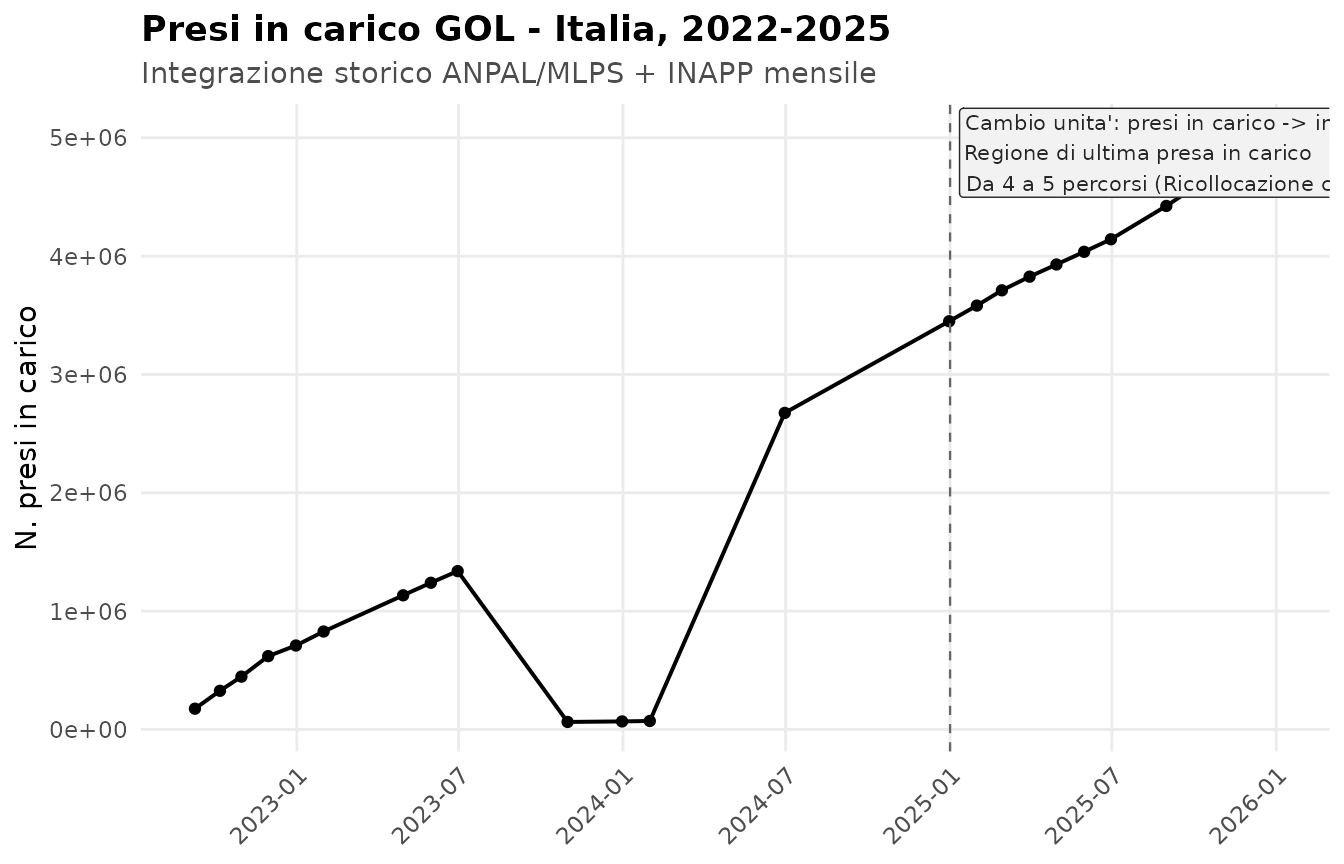
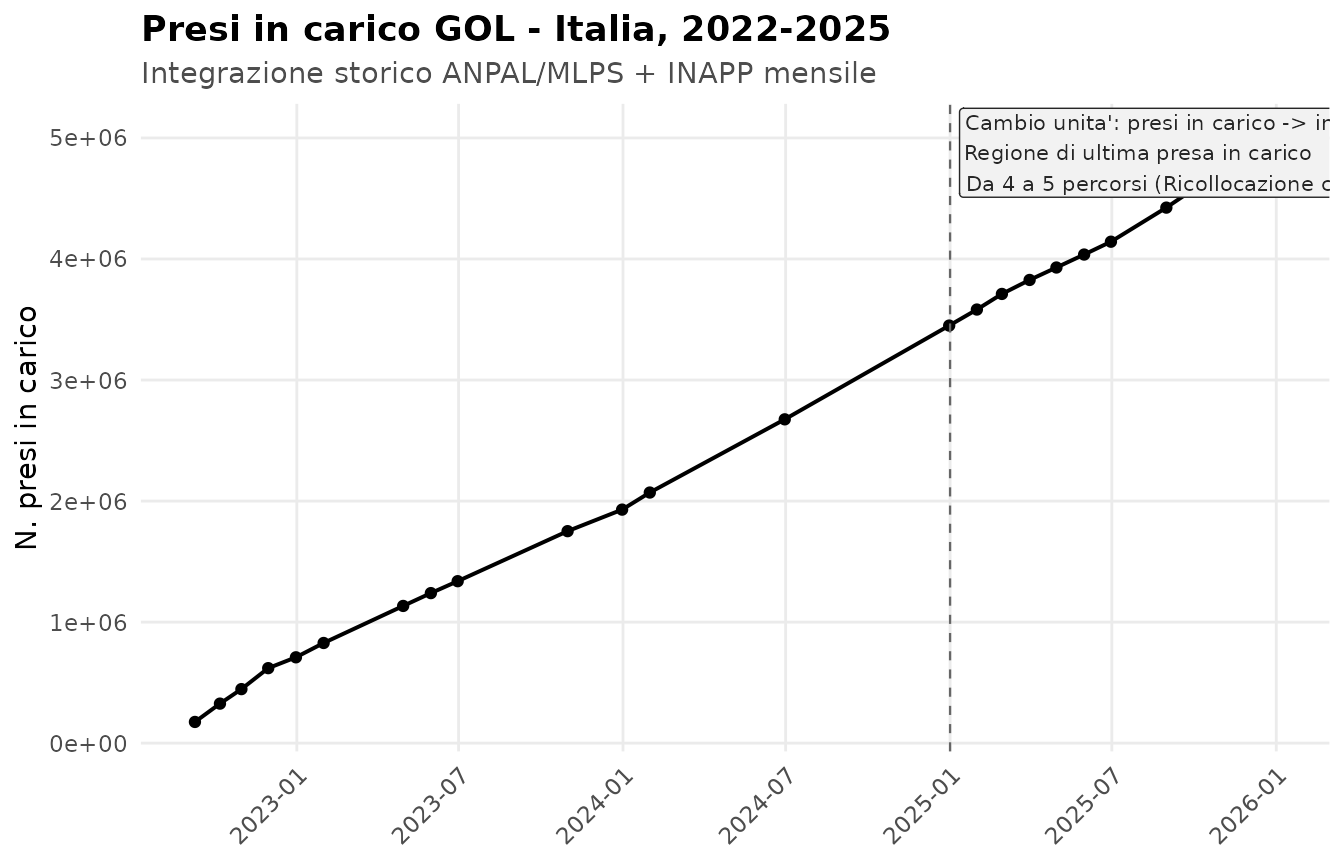
Deploying to gh-pages from @ gmontaletti/golDatasets@0181d7c17a43a96359f6d2d6aaafd328689692cf 🚀

diff --git a/reference/gol_decode_storico.html b/reference/gol_decode_storico.html
@@ -86,11 +86,11 @@ indicato. Default <code>"low"</code> (tutte). Per analisi rigorose usare <code>"
 <span class="r-out co"><span class="r-pr">#&gt;</span>    4:       2022-12-31 Abruzzo presi_in_carico_ass</span>
 <span class="r-out co"><span class="r-pr">#&gt;</span>    5:       2022-12-31 Abruzzo  presi_in_carico_pc</span>
 <span class="r-out co"><span class="r-pr">#&gt;</span>   ---                                             </span>
-<span class="r-out co"><span class="r-pr">#&gt;</span> 4611:       2025-01-31  Veneto  presi_in_carico_pc</span>
-<span class="r-out co"><span class="r-pr">#&gt;</span> 4612:       2025-01-31  Veneto presi_in_carico_ass</span>
-<span class="r-out co"><span class="r-pr">#&gt;</span> 4613:       2025-01-31  Veneto  presi_in_carico_pc</span>
-<span class="r-out co"><span class="r-pr">#&gt;</span> 4614:       2025-01-31  Veneto presi_in_carico_ass</span>
-<span class="r-out co"><span class="r-pr">#&gt;</span> 4615:       2025-01-31  Veneto  presi_in_carico_pc</span>
+<span class="r-out co"><span class="r-pr">#&gt;</span> 5073:       2025-01-31  Veneto  presi_in_carico_pc</span>
+<span class="r-out co"><span class="r-pr">#&gt;</span> 5074:       2025-01-31  Veneto presi_in_carico_ass</span>
+<span class="r-out co"><span class="r-pr">#&gt;</span> 5075:       2025-01-31  Veneto  presi_in_carico_pc</span>
+<span class="r-out co"><span class="r-pr">#&gt;</span> 5076:       2025-01-31  Veneto presi_in_carico_ass</span>
+<span class="r-out co"><span class="r-pr">#&gt;</span> 5077:       2025-01-31  Veneto  presi_in_carico_pc</span>
 <span class="r-out co"><span class="r-pr">#&gt;</span>                            percorso valore_num</span>
 <span class="r-out co"><span class="r-pr">#&gt;</span>                              &lt;char&gt;      &lt;num&gt;</span>
 <span class="r-out co"><span class="r-pr">#&gt;</span>    1:    1_reinserimento_lavorativo     5165.0</span>
@@ -99,11 +99,11 @@ indicato. Default <code>"low"</code> (tutte). Per analisi rigorose usare <code>"
 <span class="r-out co"><span class="r-pr">#&gt;</span>    4:           4_lavoro_inclusione      260.0</span>
 <span class="r-out co"><span class="r-pr">#&gt;</span>    5:    1_reinserimento_lavorativo       51.8</span>
 <span class="r-out co"><span class="r-pr">#&gt;</span>   ---                                         </span>
-<span class="r-out co"><span class="r-pr">#&gt;</span> 4611: 3_riqualificazione_reskilling       48.5</span>
-<span class="r-out co"><span class="r-pr">#&gt;</span> 4612:           4_lavoro_inclusione       41.5</span>
-<span class="r-out co"><span class="r-pr">#&gt;</span> 4613:           4_lavoro_inclusione        6.7</span>
-<span class="r-out co"><span class="r-pr">#&gt;</span> 4614:   5_ricollocazione_collettiva        3.1</span>
-<span class="r-out co"><span class="r-pr">#&gt;</span> 4615:   5_ricollocazione_collettiva        0.2</span>
+<span class="r-out co"><span class="r-pr">#&gt;</span> 5073: 3_riqualificazione_reskilling       48.5</span>
+<span class="r-out co"><span class="r-pr">#&gt;</span> 5074:           4_lavoro_inclusione       41.5</span>
+<span class="r-out co"><span class="r-pr">#&gt;</span> 5075:           4_lavoro_inclusione        6.7</span>
+<span class="r-out co"><span class="r-pr">#&gt;</span> 5076:   5_ricollocazione_collettiva        3.1</span>
+<span class="r-out co"><span class="r-pr">#&gt;</span> 5077:   5_ricollocazione_collettiva        0.2</span>
 <span class="r-in"><span></span></span>
 </code></pre></div>
     </div>

diff --git a/articles/merge-gol-cob.html b/articles/merge-gol-cob.html
@@ -471,7 +471,7 @@ del lavoro regionale.</p>
 <span><span class="co">#&gt;  $ yoy_avviamenti       : num NA</span></span>
 <span><span class="co">#&gt;  $ yoy_cessazioni       : num NA</span></span>
 <span><span class="co">#&gt;  $ yoy_saldo            : num NA</span></span>
-<span><span class="co">#&gt;  - attr(*, ".internal.selfref")=&lt;pointer: 0x55cda6d3c010&gt; </span></span>
+<span><span class="co">#&gt;  - attr(*, ".internal.selfref")=&lt;pointer: 0x55d3ed2a8010&gt; </span></span>
 <span><span class="co">#&gt;  - attr(*, "sorted")= chr [1:3] "regione" "anno" "trimestre"</span></span></code></pre></div>
 <p>Estrazione tipica: indice di rotazione
 (<code>rapporti / lavoratori</code>) per gli avviamenti.</p>

diff --git a/reference/gol_decode_storico.md b/reference/gol_decode_storico.md
@@ -41,11 +41,11 @@ d[tema == "A1" & confidenza == "high",
 #>    4:       2022-12-31 Abruzzo presi_in_carico_ass
 #>    5:       2022-12-31 Abruzzo  presi_in_carico_pc
 #>   ---                                             
-#> 4611:       2025-01-31  Veneto  presi_in_carico_pc
-#> 4612:       2025-01-31  Veneto presi_in_carico_ass
-#> 4613:       2025-01-31  Veneto  presi_in_carico_pc
-#> 4614:       2025-01-31  Veneto presi_in_carico_ass
-#> 4615:       2025-01-31  Veneto  presi_in_carico_pc
+#> 5073:       2025-01-31  Veneto  presi_in_carico_pc
+#> 5074:       2025-01-31  Veneto presi_in_carico_ass
+#> 5075:       2025-01-31  Veneto  presi_in_carico_pc
+#> 5076:       2025-01-31  Veneto presi_in_carico_ass
+#> 5077:       2025-01-31  Veneto  presi_in_carico_pc
 #>                            percorso valore_num
 #>                              <char>      <num>
 #>    1:    1_reinserimento_lavorativo     5165.0
@@ -54,9 +54,9 @@ d[tema == "A1" & confidenza == "high",
 #>    4:           4_lavoro_inclusione      260.0
 #>    5:    1_reinserimento_lavorativo       51.8
 #>   ---                                         
-#> 4611: 3_riqualificazione_reskilling       48.5
-#> 4612:           4_lavoro_inclusione       41.5
-#> 4613:           4_lavoro_inclusione        6.7
-#> 4614:   5_ricollocazione_collettiva        3.1
-#> 4615:   5_ricollocazione_collettiva        0.2
+#> 5073: 3_riqualificazione_reskilling       48.5
+#> 5074:           4_lavoro_inclusione       41.5
+#> 5075:           4_lavoro_inclusione        6.7
+#> 5076:   5_ricollocazione_collettiva        3.1
+#> 5077:   5_ricollocazione_collettiva        0.2
 ```

diff --git a/articles/merge-gol-cob.md b/articles/merge-gol-cob.md
@@ -459,7 +459,7 @@ str(ind[1])
 #>  $ yoy_avviamenti       : num NA
 #>  $ yoy_cessazioni       : num NA
 #>  $ yoy_saldo            : num NA
-#>  - attr(*, ".internal.selfref")=<pointer: 0x55cda6d3c010> 
+#>  - attr(*, ".internal.selfref")=<pointer: 0x55d3ed2a8010> 
 #>  - attr(*, "sorted")= chr [1:3] "regione" "anno" "trimestre"
 ```
 